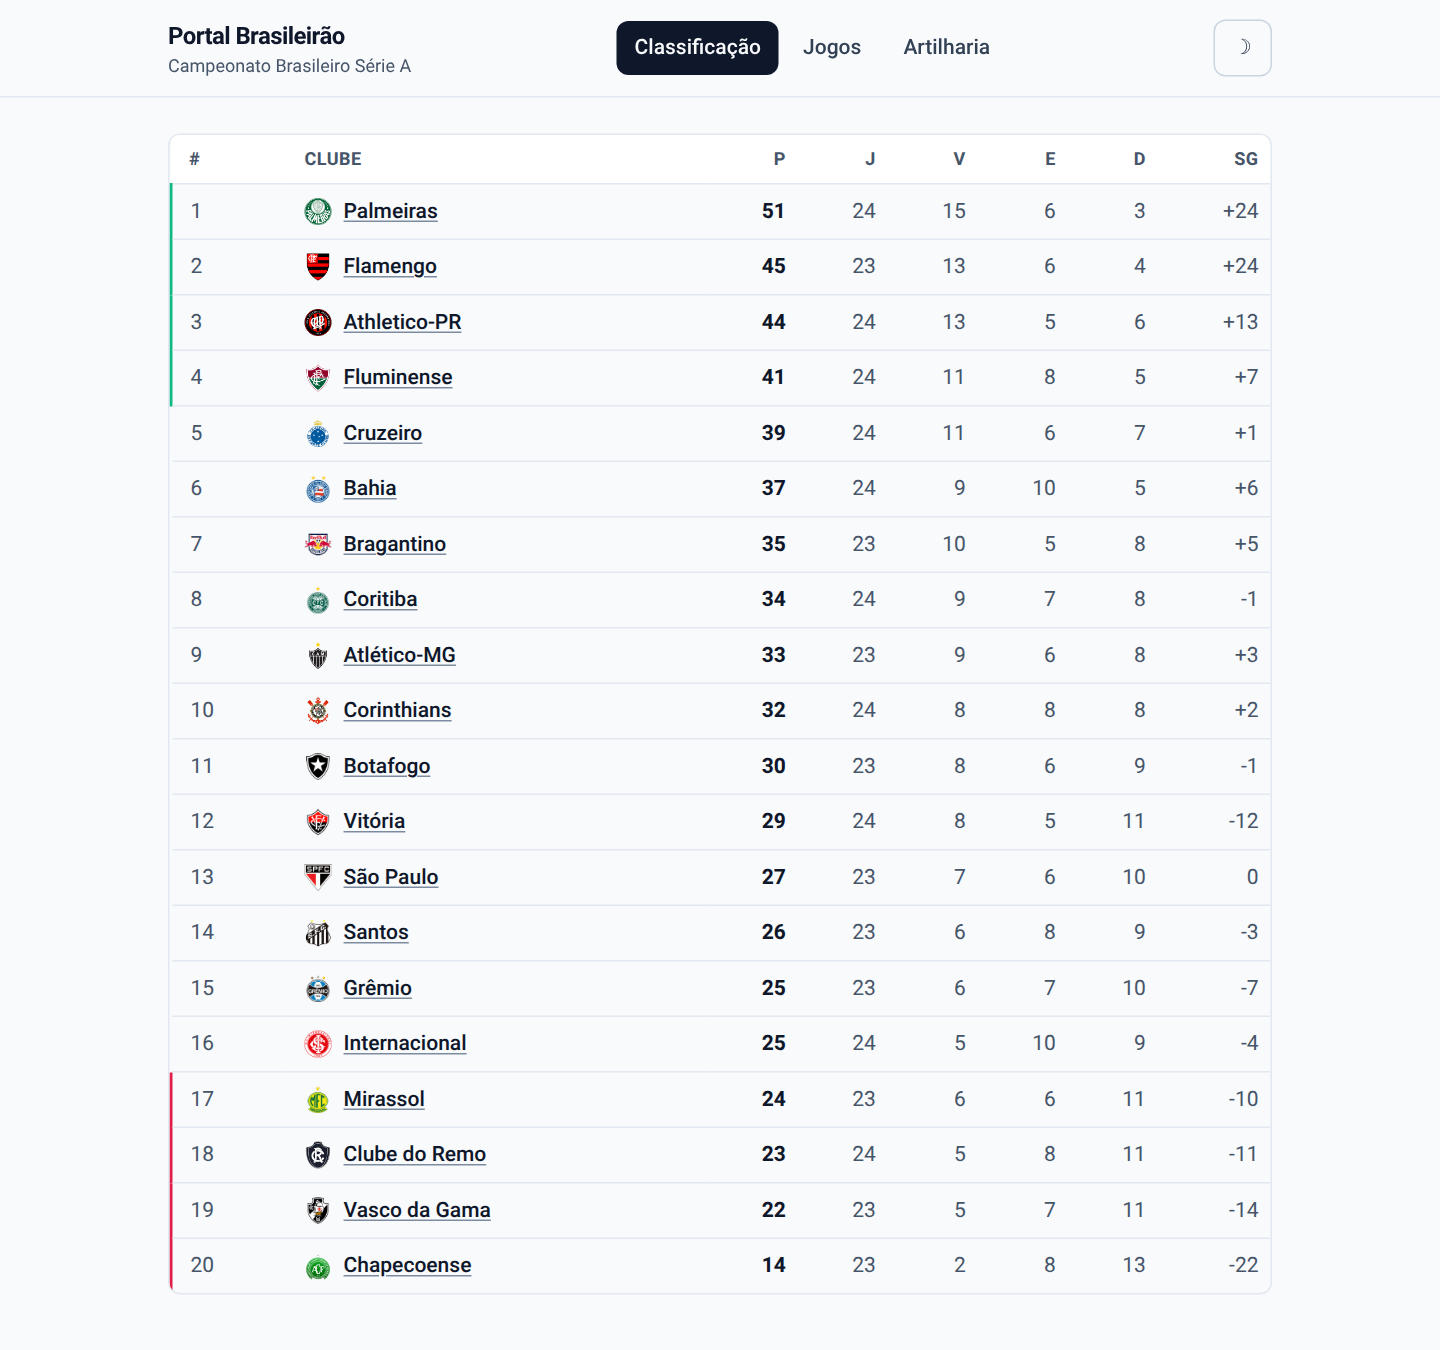
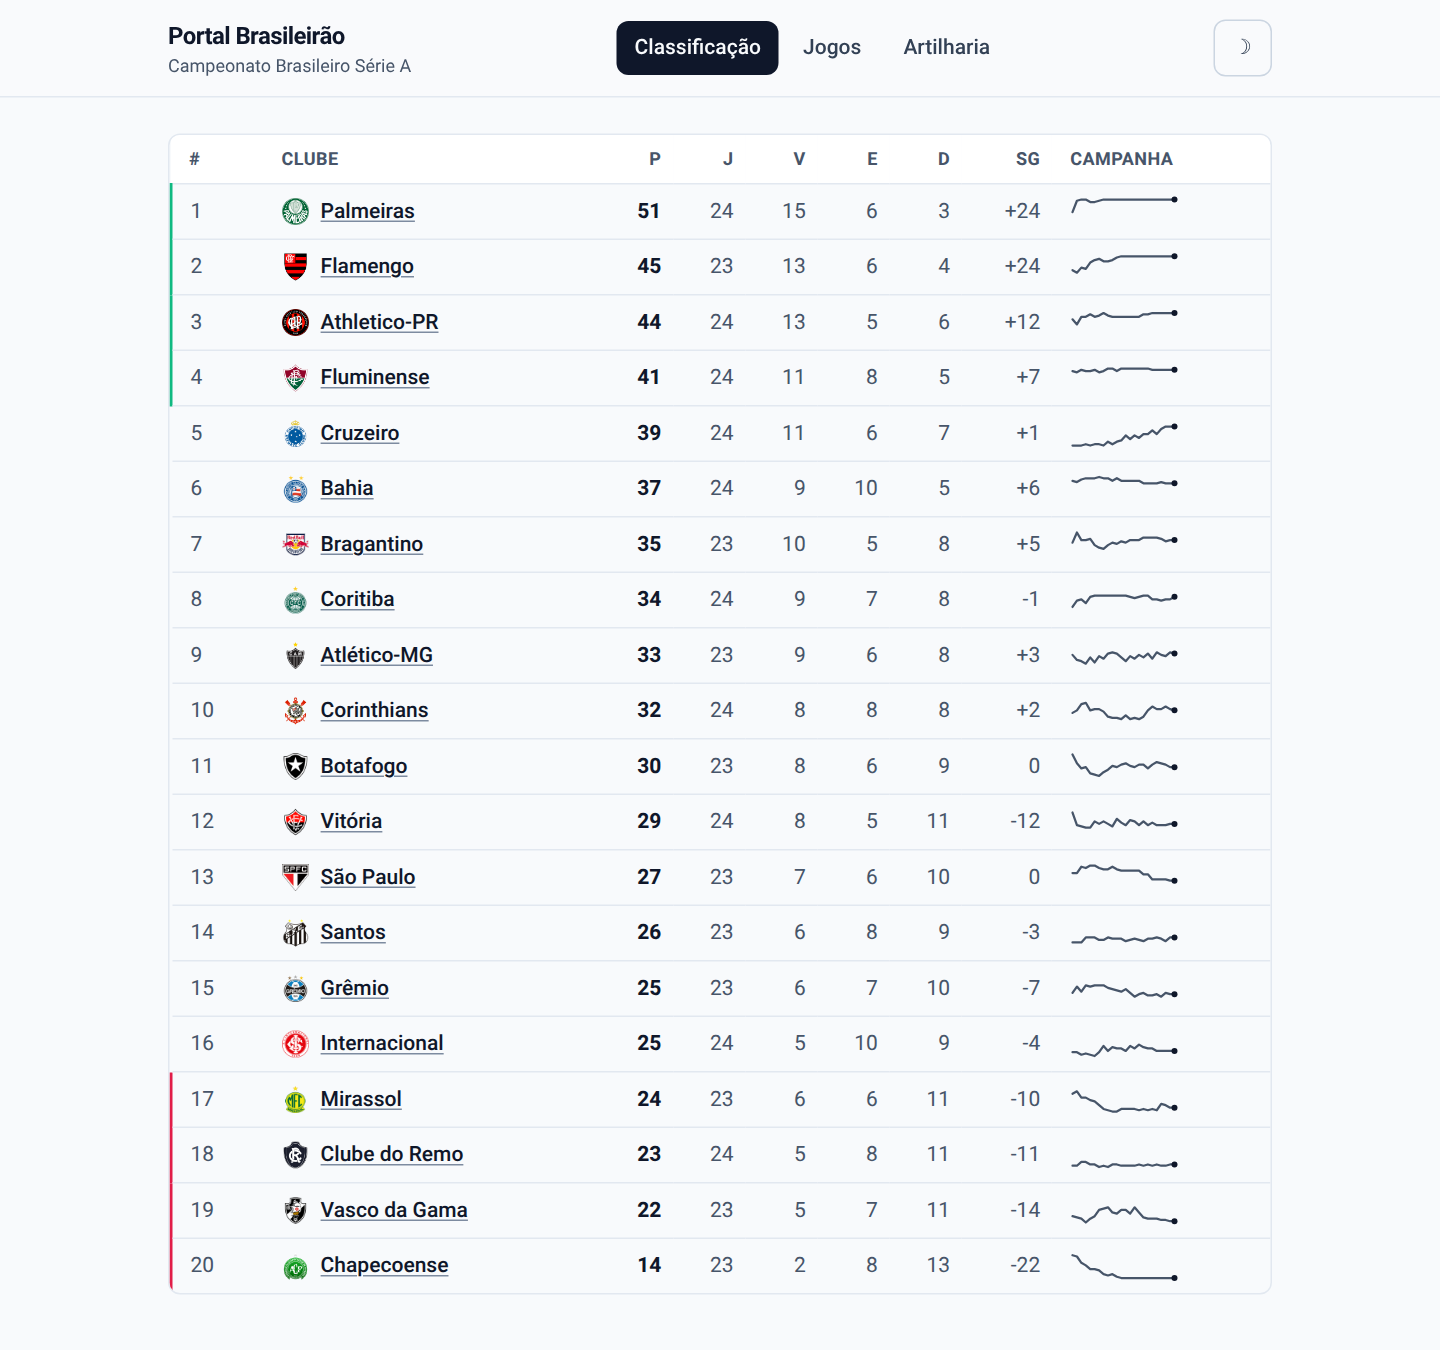
Add the dark classificação, and refresh the stale light one
The light shot dated from 0a03551 and predated the Campanha column, so
pairing it with a fresh dark capture would have shown two tables that
disagreed about how many columns the app has. Regenerated rather than left
alone; both are now 1440x1350 and identical in content.

That is the failure mode a screenshot in a README has: it is a claim about
the current app that nothing checks, and it rots silently every time a
feature lands. Worth remembering when the MD3 work changes every colour in
all four of these.

Alt text updated to mention the campanha graph, since it is now a column a
reader using a screen reader would otherwise not know exists.

diff --git a/README.md b/README.md
@@ -16,10 +16,13 @@ agent Claude Code.
 > `FOOTBALL_DATA_TOKEN` is set; without a token the app serves a frozen snapshot, so a
 > fresh clone runs with no signup.
 
-![Classificação do Campeonato Brasileiro Série A no tema claro: os 20 clubes com escudo, pontos, jogos, vitórias, empates, derrotas e saldo de gols. Os quatro primeiros trazem uma faixa verde (G4) e os quatro últimos uma faixa vermelha (Z4).](docs/screenshots/classificacao-light.png)
+![Classificação do Campeonato Brasileiro Série A no tema claro: os 20 clubes com escudo, pontos, jogos, vitórias, empates, derrotas, saldo de gols e o gráfico da campanha. Os quatro primeiros trazem uma faixa verde (G4) e os quatro últimos uma faixa vermelha (Z4).](docs/screenshots/classificacao-light.png)
 
-*Classificação in the light theme. The app follows your system setting and remembers an
-explicit choice; the control in the header switches between them.*
+![A mesma classificação no tema escuro, com as mesmas 20 posições, faixas do G4 e do Z4 e gráficos da campanha.](docs/screenshots/classificacao-dark.png)
+
+*Classificação, light and dark. The app follows your system setting and remembers an explicit
+choice; the control in the header switches between them. **Campanha** is the club's position
+after each round — the season behind a single row.*
 
 ![Página do clube Palmeiras no tema claro: escudo, site oficial e perfil no Instagram, os números da temporada (1º lugar, 51 pontos, 24 jogos, saldo +24), o gráfico da campanha da 1ª à 24ª rodada, os últimos cinco resultados, o próximo jogo e os artilheiros do clube.](docs/screenshots/clube-palmeiras-light.png)
 
